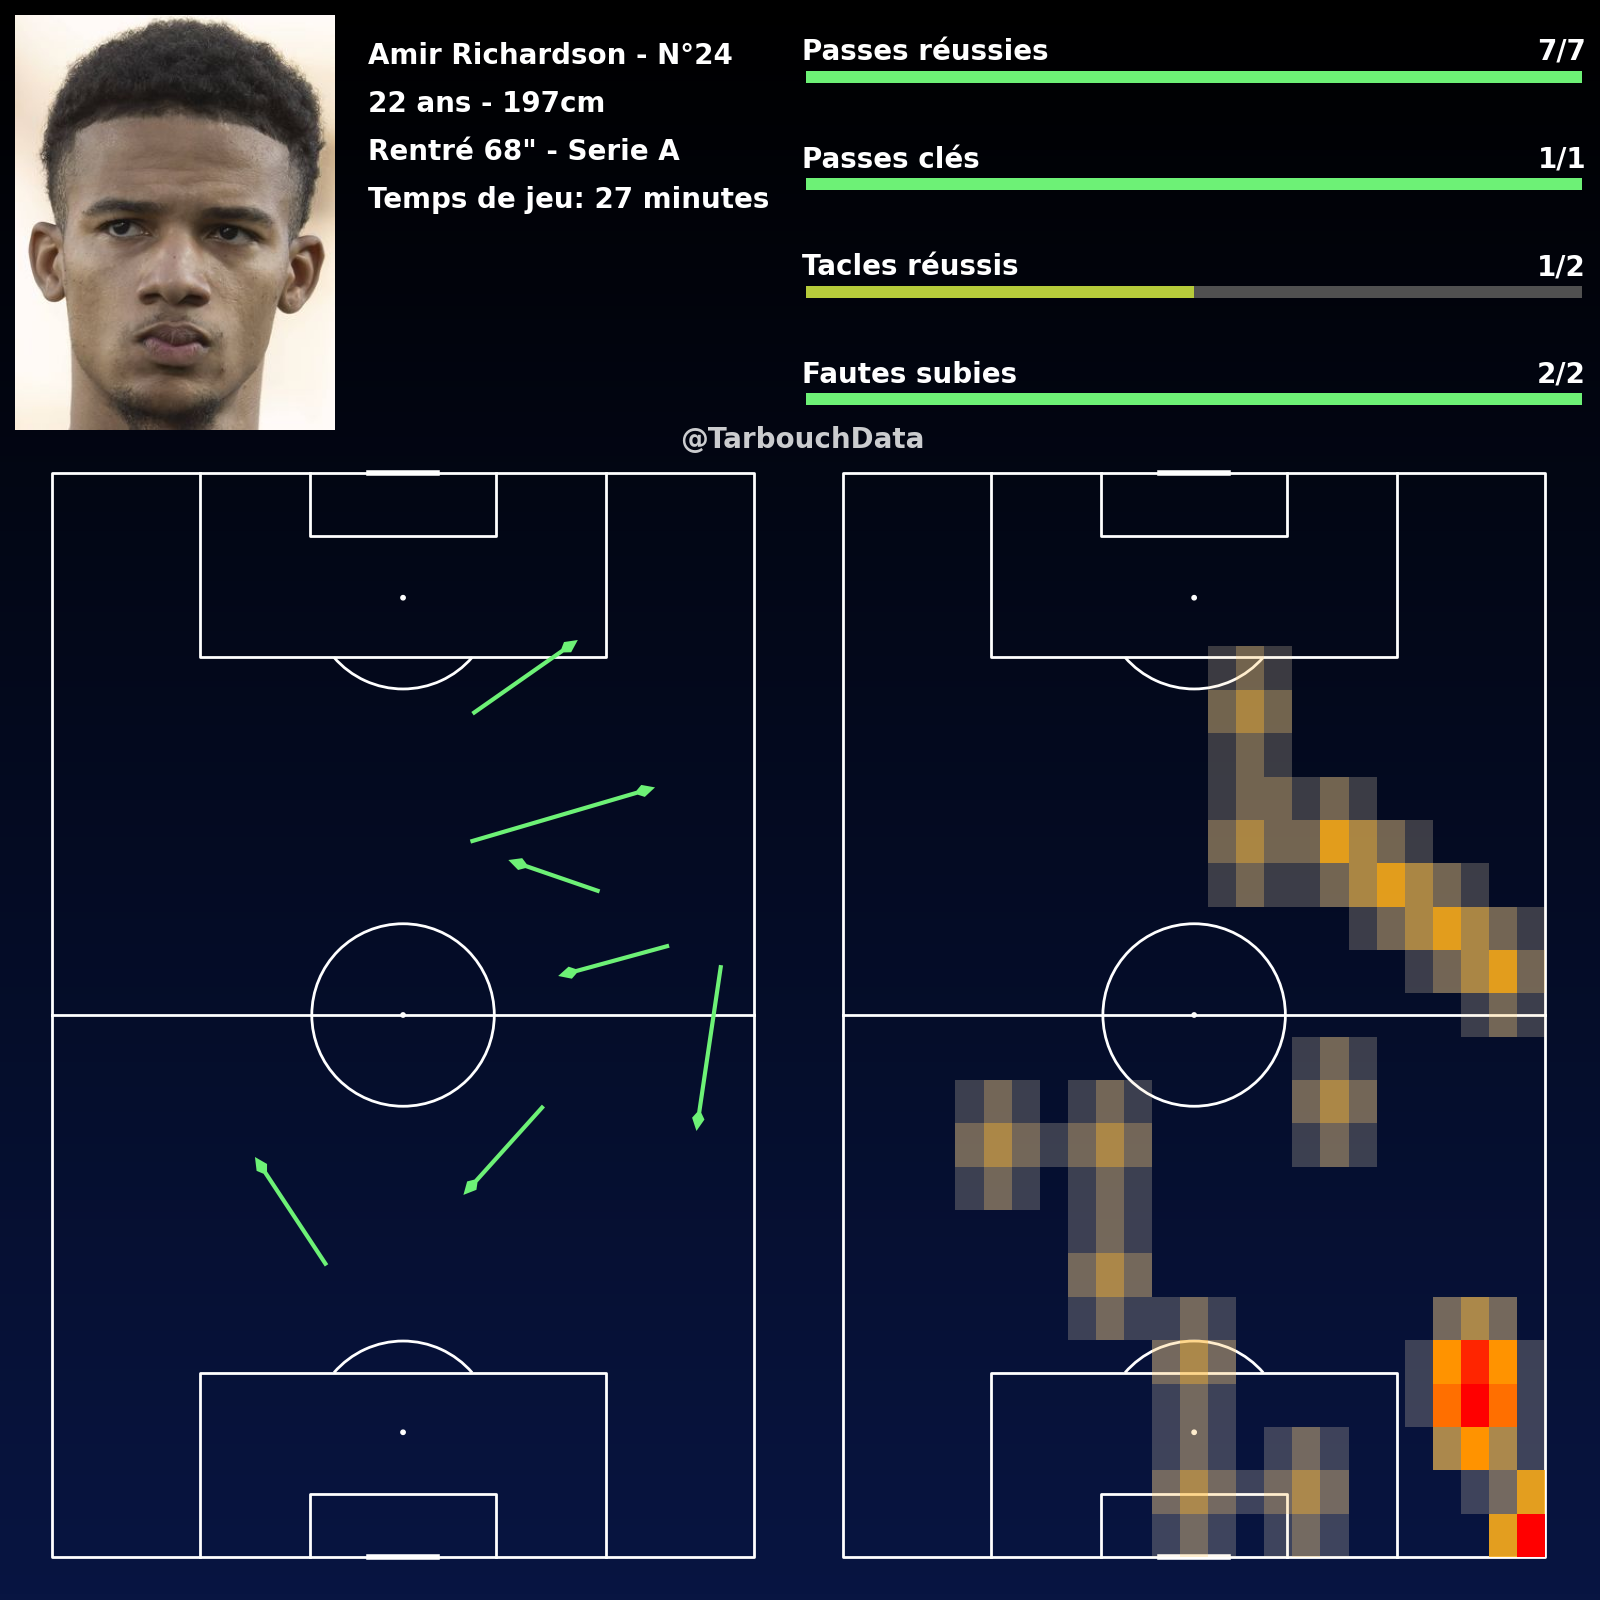
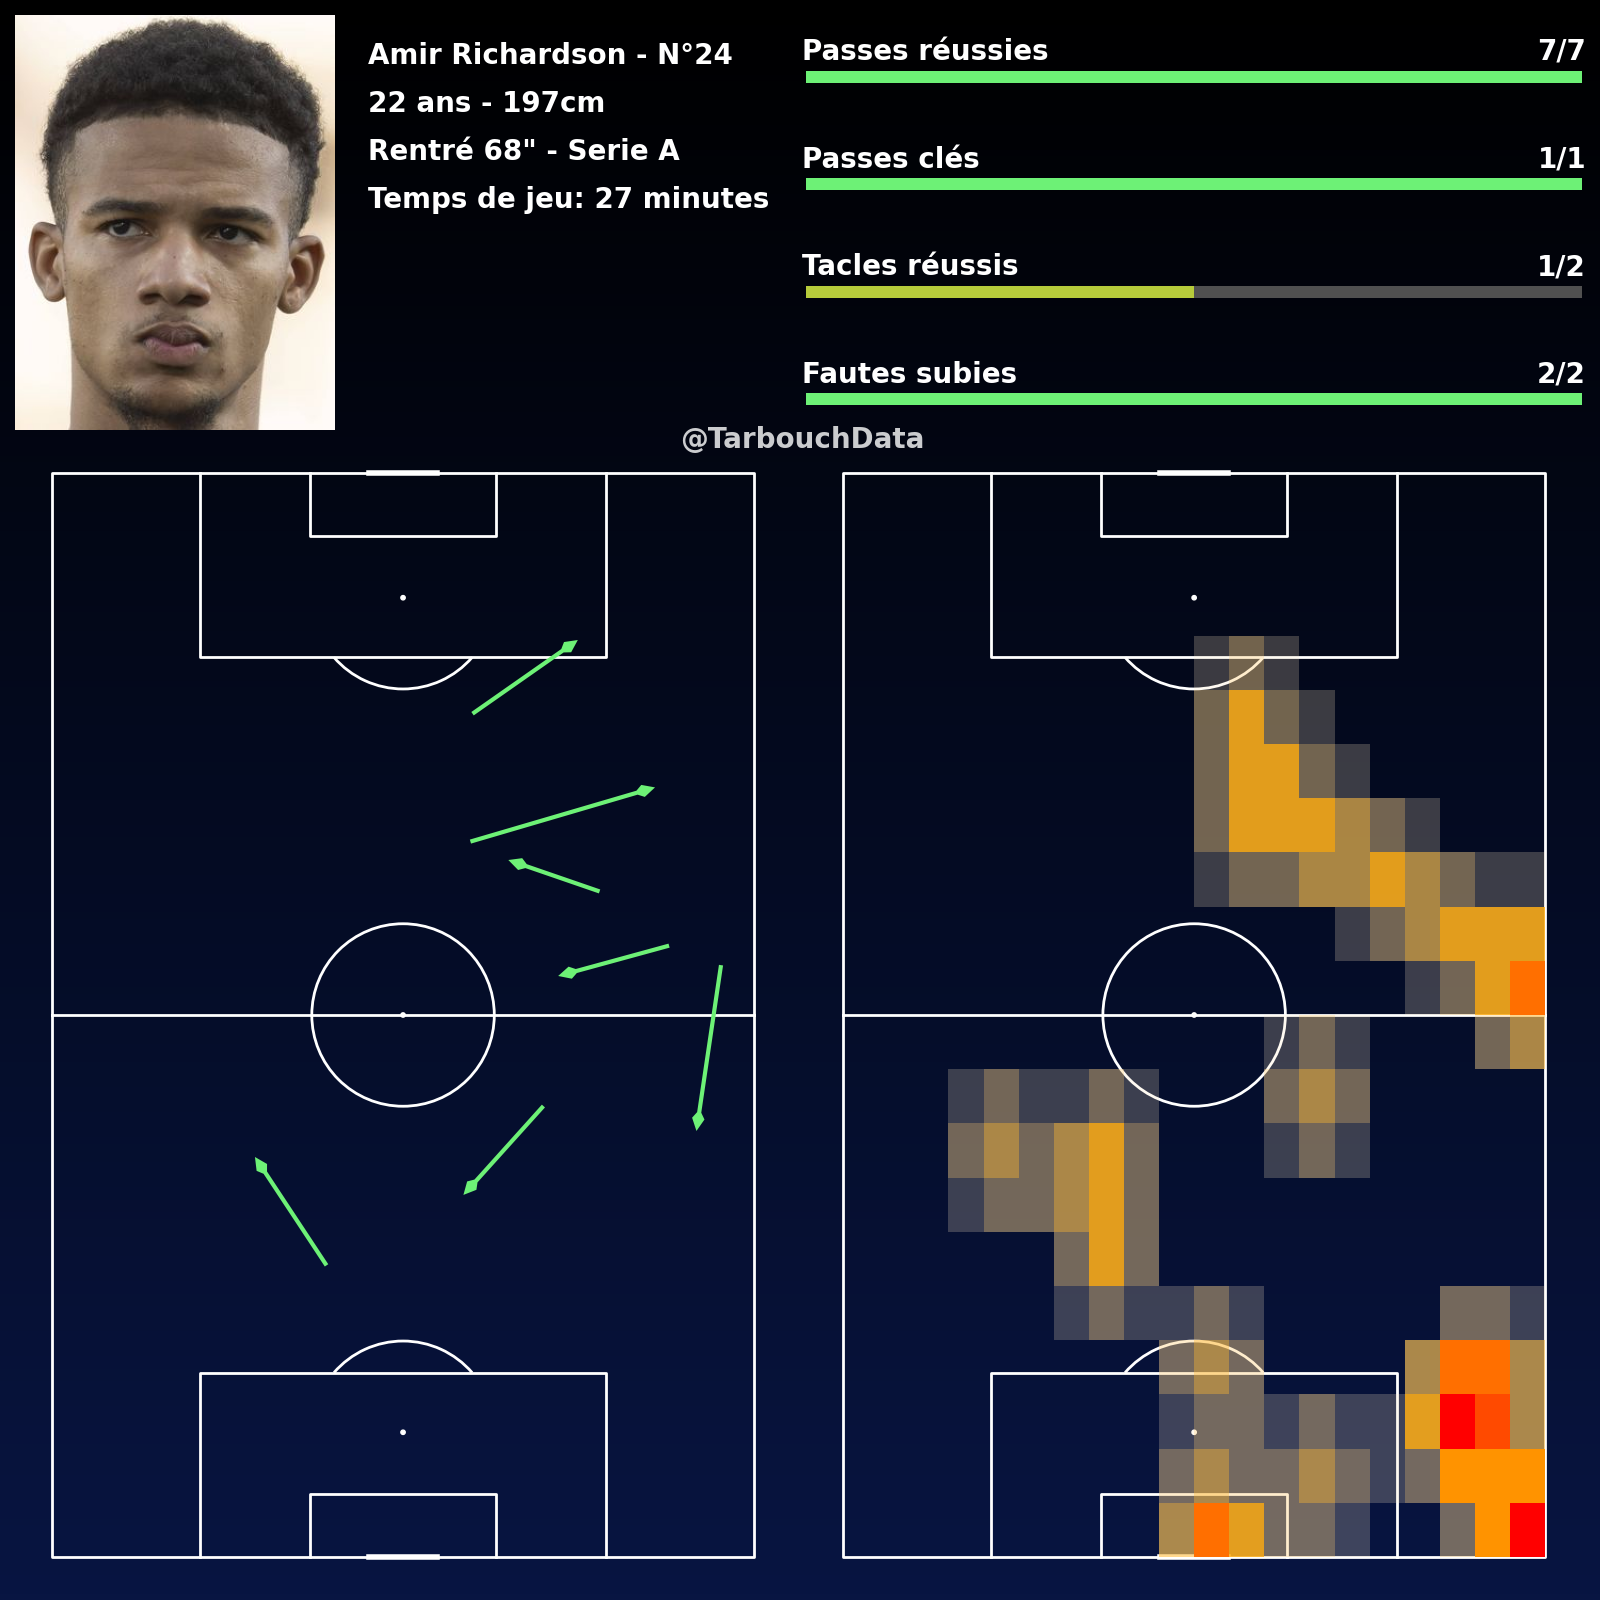
MAJ - automatisation html

Changed region(s): [[0.5938, 0.6562, 0.9688, 1.0], [0.7188, 0.375, 0.9688, 0.75]]

diff --git a/src/match_data_extractor.py b/src/match_data_extractor.py
@@ -32,7 +32,7 @@ class MatchDataExtractor:
 
         # Attente explicite que la page soit complètement chargée (exemple : attendre l'élément body)
         print("Attente que la page se charge complètement...")
-        WebDriverWait(driver, 20).until(EC.presence_of_element_located((By.TAG_NAME, "body")))
+        WebDriverWait(driver, 10).until(EC.presence_of_element_located((By.TAG_NAME, "body")))
 
         # Récupération du contenu HTML après le chargement complet
         print("Récupération du contenu HTML...")
@@ -41,9 +41,7 @@ class MatchDataExtractor:
         print("Fermeture du navigateur Selenium...")
         driver.quit()
 
-        print("Analyse du HTML avec BeautifulSoup...")
-        soup = BeautifulSoup(html, 'html.parser')
-
+        # Suppression de l'analyse avec BeautifulSoup car non utilisée
         print("Extraction des données avec le modèle regex...")
         regex_pattern = r'(?<=require\.config\.params\["args"\].=.)[\s\S]*?;'
         data_txt = re.findall(regex_pattern, html)[0]
@@ -68,7 +66,7 @@ class MatchDataExtractor:
             "France-Ligue-1", "England-Premier-League", "Italy-Serie-A", "Spain-LaLiga", "Germany-Bundesliga",
             "Europe-Champions-League", "Europe-Europa-League", "Europe-Conference-League"
         ]
-        
+
         for keyword in competition_keywords:
             if keyword.lower() in filename.lower():
                 # Split the keyword by hyphen and remove the first word
@@ -76,7 +74,7 @@ class MatchDataExtractor:
                 # Join the remaining parts with spaces
                 competition_name = ' '.join(parts)
                 return competition_name
-    
+
         return None  # Return None if no competition is found
 
     def load_colors_for_competition(self, competition_name):

diff --git a/src/player_visualizer.py b/src/player_visualizer.py
@@ -266,7 +266,7 @@ class PlayerVisualizer:
         y_coords = [t['y'] for t in touchs]
     
         # Compute bin statistic for heatmap
-        bin_statistic = pitch.bin_statistic(x_coords, y_coords, statistic='count', bins=(25, 25))
+        bin_statistic = pitch.bin_statistic(x_coords, y_coords, statistic='count', bins=(20, 20))
     
         # Apply Gaussian filter for smoothing
         bin_statistic['statistic'] = gaussian_filter(bin_statistic['statistic'], 1)
